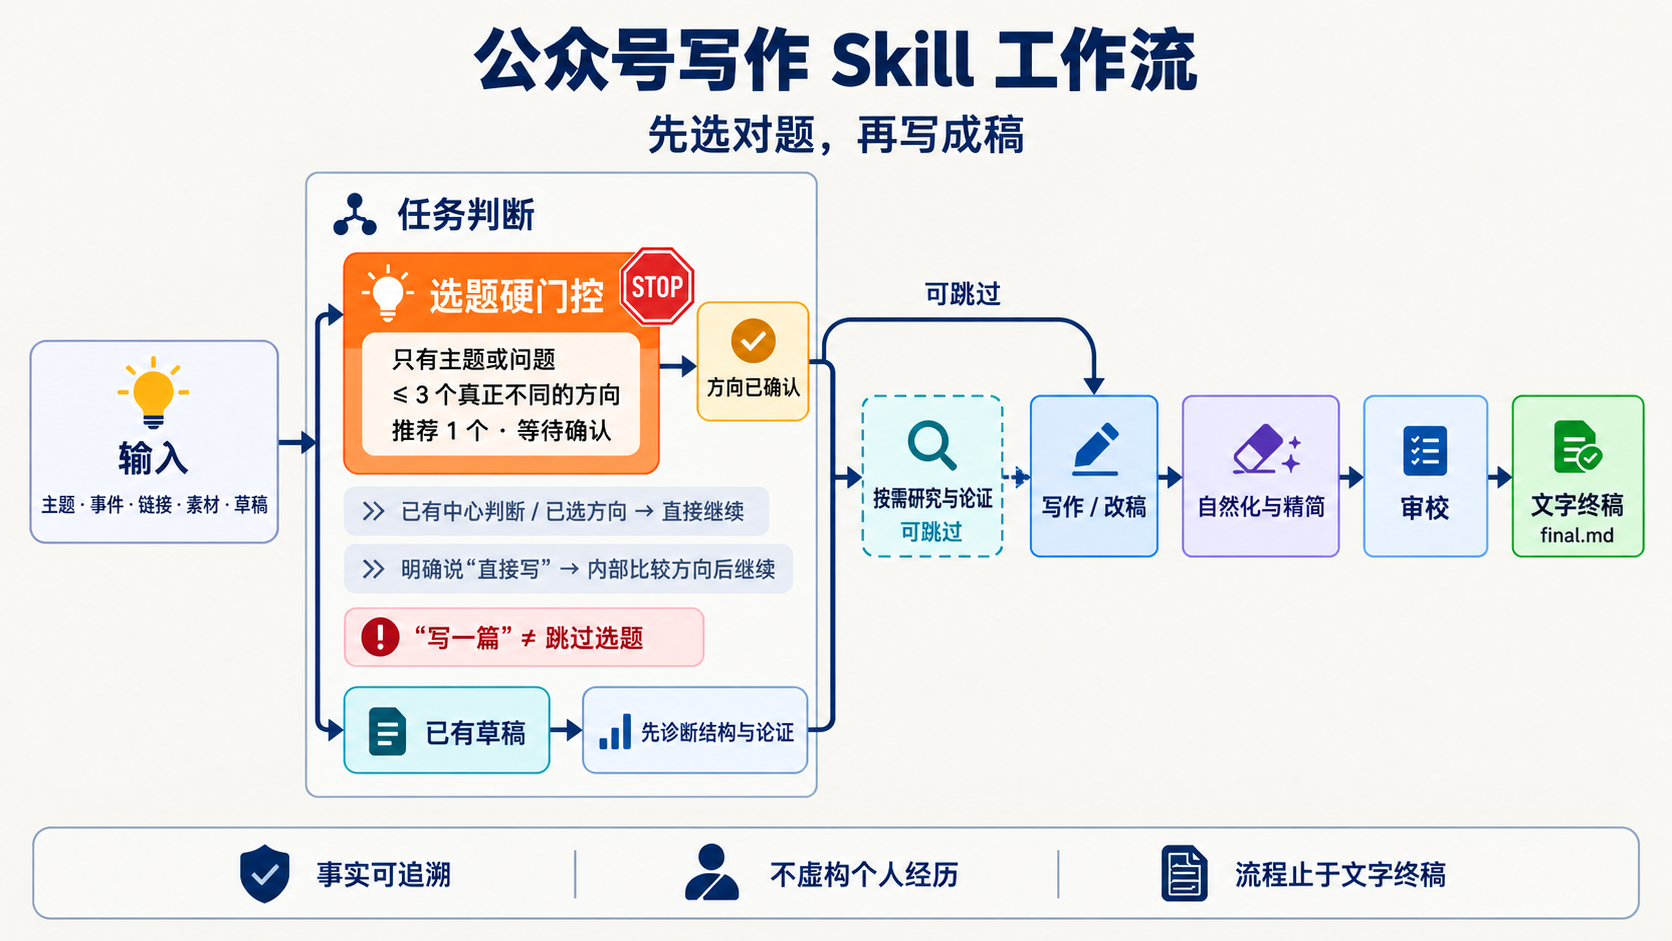
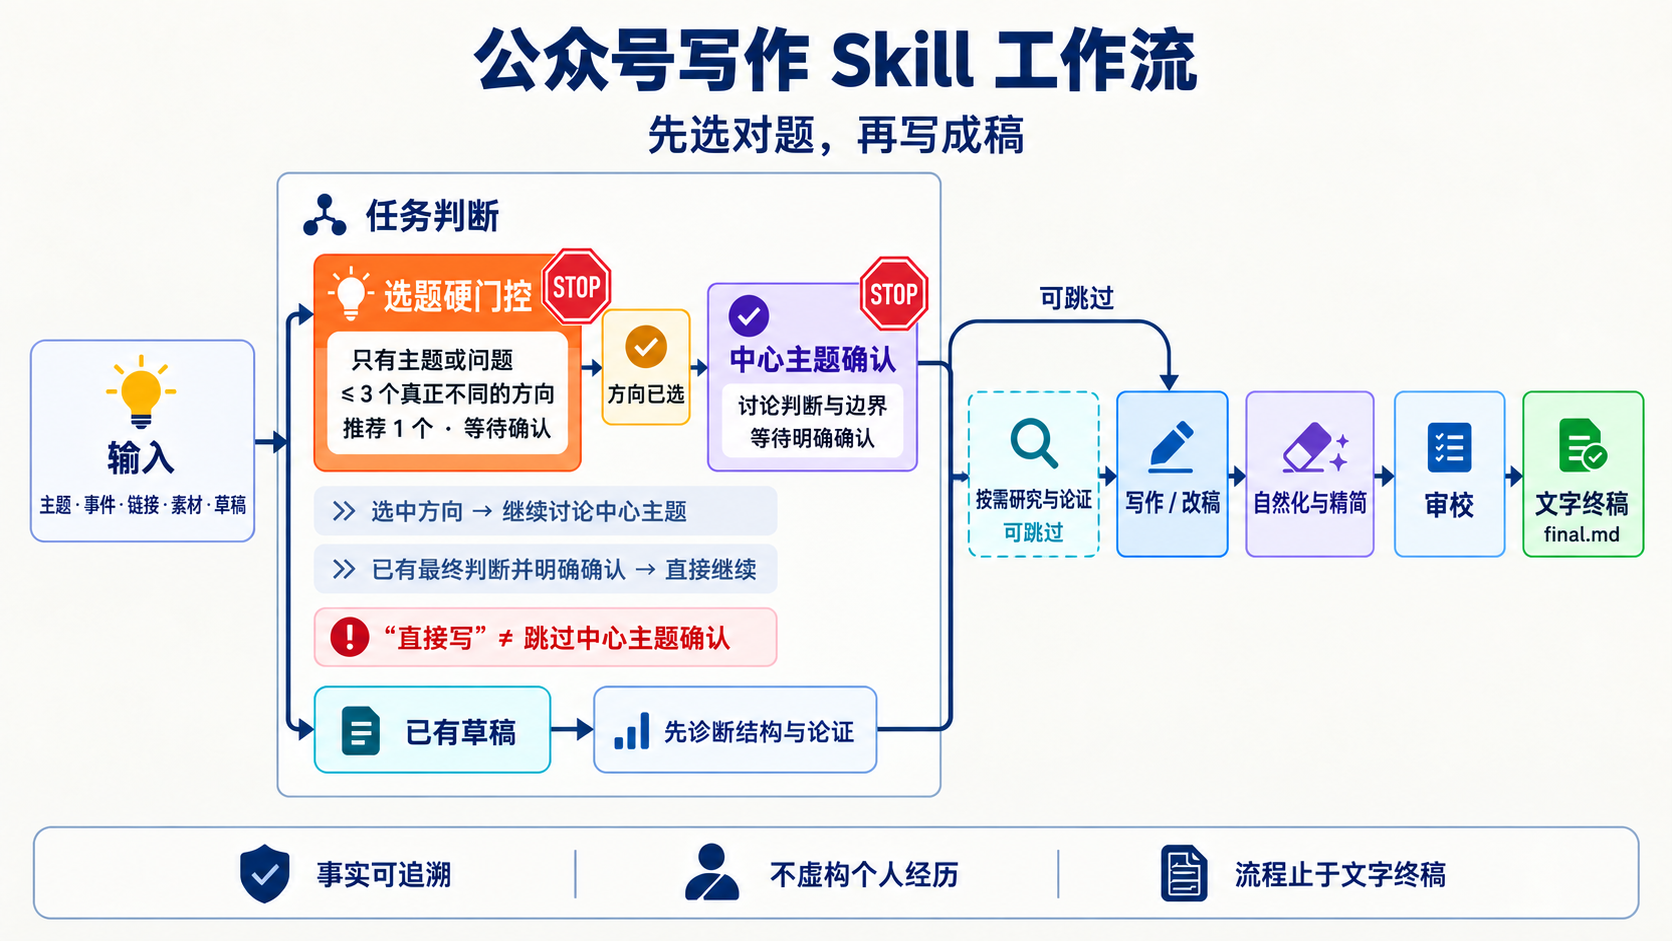
fix: require center-theme confirmation

diff --git a/scripts/validate_workflow.py b/scripts/validate_workflow.py
@@ -105,8 +105,8 @@ def validate_routing_contract() -> None:
         return matches[0]
 
     contracts = [
-        ("明确要求跳过选题并直接成稿", ["references/ideation.md", "references/drafting.md"]),
-        ("已经给出可直接论证的中心判断", ["references/drafting.md", "references/natural-editing.md", "references/review.md"]),
+        ("明确要求直接成稿，但尚未确认中心主题", ["references/ideation.md"]),
+        ("用户已经明确确认最终中心主题", ["references/drafting.md", "references/natural-editing.md", "references/review.md"]),
         ("事实密集、时效性强或高风险文章", ["references/research.md", "references/argument.md", "references/drafting.md", "references/natural-editing.md", "references/review.md"]),
         ("要求事实检查", ["references/research.md", "references/review.md"]),
         ("继续上次文章", ["references/workspace.md"]),
@@ -121,8 +121,9 @@ def validate_routing_contract() -> None:
     topic_gate_phrases = [
         "给出新主题、事件、现象、链接或研究问题，但尚未给出中心判断",
         "问题即使很具体",
-        "普通的“写一篇”不是跳过指令",
         "等待用户选择",
+        "选中方向只代表选择探索路线",
+        "等待明确确认",
     ]
     missing_gate_phrases = [
         phrase for phrase in topic_gate_phrases if phrase not in skill_text
@@ -136,6 +137,8 @@ def validate_routing_contract() -> None:
         "展示方向卡和推荐后停止",
         "质疑或重构原前提",
         "切换到不同参与者或分析层级",
+        "讨论并确认中心主题",
+        "中心主题确认前",
     ]
     missing_ideation_phrases = [
         phrase for phrase in ideation_phrases if phrase not in ideation
@@ -230,7 +233,7 @@ def validate_cases() -> int:
                 fail(f"scenario {scenario_id} references missing file: {reference}")
 
     expected_categories = {
-        "broad-direct",
+        "theme-confirmation",
         "fact-check",
         "ideation",
         "hot-analysis",
@@ -251,6 +254,10 @@ def validate_cases() -> int:
         "specific-why-question-must-ideate": "references/ideation.md",
         "ordinary-write-request-still-ideates": "references/ideation.md",
         "explicit-thesis-direct-draft": "references/drafting.md",
+        "broad-topic-direct-still-confirms-theme": "references/ideation.md",
+        "selected-direction-needs-theme-discussion": "references/ideation.md",
+        "theme-refinement-is-not-confirmation": "references/ideation.md",
+        "explicit-theme-confirmation-unlocks-brief": "references/ideation.md",
     }
     scenarios_by_id = {scenario["id"]: scenario for scenario in scenarios}
     for scenario_id, required_reference in required_topic_gate_cases.items():
@@ -275,7 +282,6 @@ def validate_cases() -> int:
         )
 
     complete_draft_cases = {
-        "broad-topic-direct-draft",
         "explicit-thesis-direct-draft",
         "current-public-issue",
         "personal-tutorial",

diff --git a/tests/test_validate_workflow.py b/tests/test_validate_workflow.py
@@ -118,7 +118,7 @@ class ValidateWorkflowTests(unittest.TestCase):
         scenario = next(
             item
             for item in data["scenarios"]
-            if item["id"] == "broad-topic-direct-draft"
+            if item["id"] == "explicit-thesis-direct-draft"
         )
         scenario["expected_refs"].remove("references/natural-editing.md")
         validate_workflow.CASES_FILE.write_text(
@@ -133,6 +133,14 @@ class ValidateWorkflowTests(unittest.TestCase):
         text = text.replace("同层比较", "比较")
         argument.write_text(text, encoding="utf-8")
         with self.assertRaisesRegex(AssertionError, "outline gate is incomplete"):
+            validate_workflow.validate_routing_contract()
+
+    def test_direction_selection_cannot_skip_theme_confirmation(self) -> None:
+        ideation = validate_workflow.SKILL_DIR / "references" / "ideation.md"
+        text = ideation.read_text(encoding="utf-8")
+        text = text.replace("中心主题确认前", "方向选中后")
+        ideation.write_text(text, encoding="utf-8")
+        with self.assertRaisesRegex(AssertionError, "ideation gate is incomplete"):
             validate_workflow.validate_routing_contract()
 
 

diff --git a/wechat-writing/references/ideation.md b/wechat-writing/references/ideation.md
@@ -8,13 +8,13 @@
 
 “为什么会这样”“探讨一下这个现象”“围绕它写一篇”只限定了研究范围。问题再具体，也不等于已经有选题；目标读者本身也不能替代中心判断。
 
-只有满足以下任一条件，方向才算确定：
+只有满足以下任一条件，候选方向才算选中：
 
-- 用户给出一个可直接论证的中心判断或必须表达的立场；
 - 用户从此前的候选中选定一项；
-- 用户明确要求“直接写”“不要给方向”“无需确认”等，授权跳过可见的方向选择。
+- 用户明确要求“直接写”“不要给方向”等，授权内部选择方向；
+- 用户直接给出一个可论证的中心判断。
 
-最后一种情况仍须在内部完成方向比较，只是不向用户展示候选、不在此暂停。普通的“写一篇”不属于跳过指令。
+方向选中不等于中心主题已经确认。普通的“写一篇”既不代表方向选中，也不代表中心主题确认。
 
 ## 四道门
 
@@ -58,15 +58,29 @@
 
 不要为了填满字段写空话。某项没有内容时直接省略。
 
+## 讨论并确认中心主题
+
+用户选中方向后，先把探索路线收敛成文章最终要主张的一句话：
+
+1. 复述用户真正想说的内容，不把候选卡原句直接当结论；
+2. 找出仍含糊的关键词、因果、价值判断和适用边界；
+3. 吸收用户后续补充，必要时指出会让论点过度绝对的部分；
+4. 给出一句可论证的中心判断，并补一句最重要的边界；
+5. 请用户明确确认，然后停止。
+
+以下都不算确认：只说“方向一”；继续解释“还可以说成……”；新增例子；修改某个概念。遇到这些输入，应继续整合观点并再次提出中心判断。只有“就按这个判断继续”“这个中心主题可以”或同等明确的表达，才算确认。若用户在同一条请求中已经给出完整判断并明确要求按它写，可直接视为确认。
+
+中心主题确认前，不创建最小 brief，不研究，不列提纲，不写正文。即使用户说“直接写”，也只能跳过候选展示，不能跳过此确认。
+
 ## 收敛原则
 
 - 一篇文章通常只保留一个核心命题和少数互相支撑的视角。
 - 热点只是入口，不自动等于值得写；无法新增解释时可以建议短评、暂存或换方向。
 - 原创不等于故意唱反调。更准确的边界、被忽略的代价、竞争解释或更好用的判断框架都可以构成新增价值。
-- 用户明确说“直接写”“不要给方向”或“无需确认”时，选择推荐方向继续，把未确认内容记录为工作假设；不要把普通的“写一篇”解释为同义授权。
+- 用户明确说“直接写”或“不要给方向”时，可以内部选择推荐方向，但仍要展示最终中心判断并等待确认；不要把未确认的中心主题当作工作假设继续写。
 
-## 方向确认后的最小 brief
+## 中心主题确认后的最小 brief
 
-方向确定后先形成最小 brief，只记录文章真正需要的信息：目标读者、读者问题、核心判断、新增价值、最强竞争解释、适用边界、可用个人材料和待核实主张。brief 未形成前不得开始研究或正文；后续若要改变核心问题，应回到方向选择，而不是静默换题。
+中心主题得到用户明确确认后，才能形成最小 brief，只记录文章真正需要的信息：目标读者、读者问题、核心判断、新增价值、最强竞争解释、适用边界、可用个人材料和待核实主张。后续若要改变核心问题，应回到中心主题确认，而不是静默换题。
 
 若方向依赖大量外部事实，先进入 [研究与证据](research.md)；若材料已有但论点仍松散，先进入 [论证与提纲](argument.md)。

diff --git a/README.md b/README.md
@@ -72,10 +72,11 @@ workspace/                 私有作者档案、样本、文章项目
 ## 工作流
 
 ```text
-定任务或方向 → 最小 brief → 按需研究与论证 → 写作或改稿 → 自然化与精简 → 审校 → 终稿
+选择方向 → 讨论并确认中心主题 → 最小 brief → 按需研究与论证 → 写作或改稿 → 自然化与精简 → 审校 → 终稿
 ```
 
-- **定任务或方向**：明确文章要解释、主张、指导、比较、复盘还是表达；只有争议性文章才必须形成可反驳的中心论点。
+- **选择方向**：从主题种子中找出真正不同的探索路线，用户选中一项后不立即写作。
+- **确认中心主题**：把暂定观点讨论成一句可论证、有边界的判断，获得用户明确确认后才继续。
 - **最小 brief**：锁定读者问题、核心判断、新增价值、竞争解释、边界和待核实主张。
 - **按需研究**：只有时效性事实、外部数据、引语、产品能力、政策规则或高风险判断需要核实时才研究。纯随笔、用户亲历和明确标注的个人判断可以不建来源账本。
 - **写作**：围绕核心任务组织材料；每节只承担一个主要推进，评论和分析形成有边界的中心判断。
@@ -87,11 +88,11 @@ workspace/                 私有作者档案、样本、文章项目
 
 - 新主题、事件、现象或研究问题只要还没有中心判断，就必须先给出最多 3 个真正不同的方向，推荐其中 1 个并等待选择。
 - 具体问题和“为什么”“探讨一下”“写一篇”等措辞不等于选题已经确定。
-- 用户给出可直接论证的中心判断，或选择了此前的方向后，才直接写作，不强制重复讨论流程。
-- 方向确认后先形成最小 brief，研究和正文都必须服从它。
+- 选择方向不等于确认中心主题；系统会继续与用户收敛最终判断，并再次等待确认。
+- “直接写”只能跳过候选展示，不能跳过中心主题确认；同一条请求已明确给出最终判断并要求按它写时例外。
+- 中心主题确认后才形成最小 brief，研究和正文都必须服从它。
 - 研究只在事实、时效性或风险需要时触发。
 - 事实检查会先核验来源和时效，再进入审校，不把核查自动扩成全文重写。
-- 用户明确说“直接写”“不要给方向”或“无需确认”时，内部先完成一次轻量方向比较，不额外打断用户；普通的“写一篇”不会跳过选题。
 - 普通“润色一下”默认只改善表达并保留内容，不扩大成全文改稿。
 - 完整新稿和全文改稿必须按“结构与内容 → 自然化与精简 → 终检”各执行一次。
 - 重要机制和关键反方讲透；常识背景、重复例子和无关延伸不详细展开。

diff --git a/wechat-writing/references/examples.md b/wechat-writing/references/examples.md
@@ -24,6 +24,20 @@
 
 这三项的问题、论证和结论不同；把同一句话改成三个标题不算三个方向。
 
+## 选方向不等于确认中心主题
+
+> 用户：我选方向一。
+
+这里只锁定了探索路线。继续讨论后，系统给出一句最终中心判断并等待确认。
+
+> 用户：还可以说成一种轮回，重新回到搞笑本身。
+
+这是对观点的补充，不是确认。吸收补充、收窄绝对表述，再次展示中心判断。
+
+> 用户：这个中心主题可以，就按这句继续。
+
+到这里才形成最小 brief，并进入研究或写作。
+
 ## 事实、推断与观点
 
 > 公司在 8 月上线了新功能。——事实，需要当前来源。
